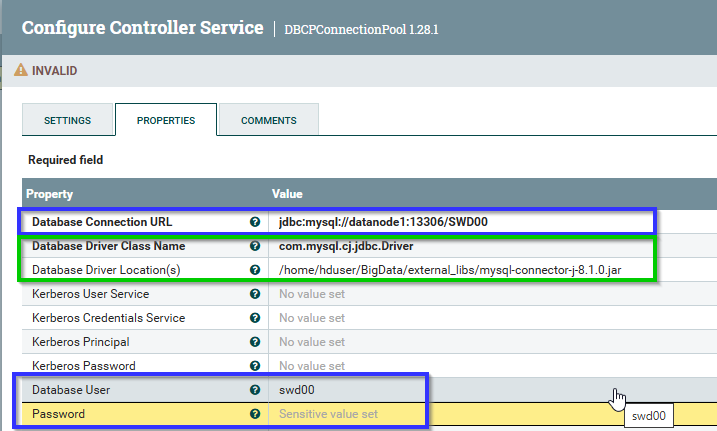
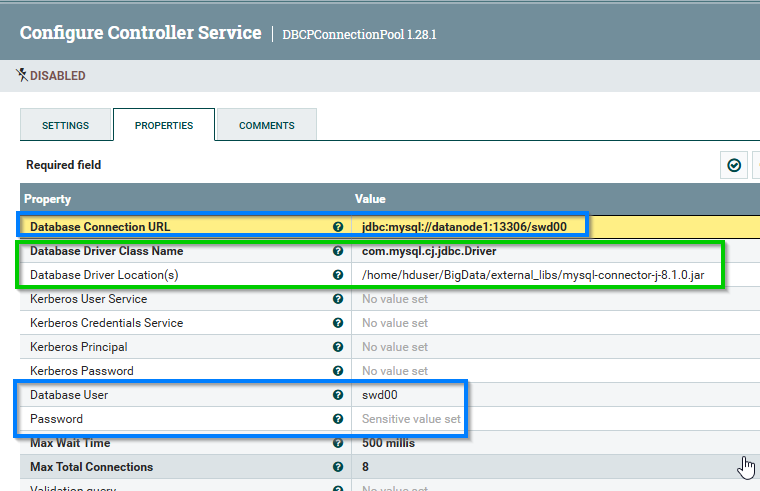
Nifi howto with GUI

diff --git a/scripts/05/05n_nifi_read_from_rdbms_to_hdfs.md b/scripts/05/05n_nifi_read_from_rdbms_to_hdfs.md
@@ -12,17 +12,22 @@ create hive destination table as external table. As Nifi uses binary [Parquet](h
 ```bash
 export HIVE_CONNECT_STRING=localhost:10000
 beeline --verbose -u jdbc:hive2://$HIVE_CONNECT_STRING scott tiger <<!
-CREATE EXTERNAL TABLE StudentsNifi (
-    id        INT,
-    name      STRING,
-    semester  INT,
-    course    STRING
+DROP TABLE IF EXISTS StudentsNifi;
+-- the entry_date column should be string, as date fields cannot easily be mapped between MySQL and hive
+CREATE EXTERNAL TABLE IF NOT EXISTS StudentsNifi (
+    id         INT,
+    first_name STRING,
+    last_name  STRING,
+    entry_date STRING,
+    course     STRING
 )
 STORED AS PARQUET
-LOCATION '/user/hduser/hive_external/studentsNifi';
+LOCATION '/user/hduser/hive_external/students';
 !
+
+hdfs dfs -mkdir -p /user/hduser/hive_external/students
 # check, if necessary
-hdfs dfs -chown nifi /user/hduser/hive_external/studentsNifi
+hdfs dfs -chmod 777 /user/hduser/hive_external/students
 ```
 
 then we need to configure NiFi using Web GUI on port 8999/nifi:
@@ -48,3 +53,77 @@ and set following properties (replace `swd00` by e.g. `itm01` or `swd01` inside 
 press the `flash` icon to enable the service:<br>
 
 ![enable service](images/image-5.png)
+
+add a new processor by dragging the following icon to the canvas board:<br>
+
+![add processor](images/image-6.png)
+
+![QueryDatabaseTable processor](images/image-7.png)
+
+set at least following values in the processor's properties (field "Maximum-value Columns" is used to find new inserts basing on ascending `id`)<br>
+> IMPORTANT: table names, database names etc. are case sensitive !!!
+
+![Processor properties](images/image-8.png)
+
+then add processor to write the data from MySQL to HDFS:<br>
+
+![ConvertRecord processor](images/image-9.png)
+
+and set the proper values for record reader and writer as below:<br>
+
+![RecordReaderWriter](images/image-10.png)
+
+add the end you should see the following 3 services, all 3 enabled:<br>
+
+![enabled controller services](images/image-11.png)
+
+add a processor to write to HDFS:<br>
+
+![add PutHDFSProcessor](images/image-12.png)
+
+and configure hadoop config files and the proper hive external directory:<br>
+
+![HDFS put settings](images/image-13.png)
+
+and then tell Nifi to end the processing after this step (other steps might also terminate in case of failure):<br>
+
+![terminate after last process](images/image-14.png)
+
+--then create an UpdateAttribute processor to configure target file names <br>
+--![UpdateAttribute](images/image-15.png)
+
+in the end your screen should look as below and pressing the `Play` button of the flow should show success:<br>
+
+![start Nifi flow](images/image-16.png)
+
+if all went well, you should see in the web GUI, that some bytes were read and written<br>
+and you should find a non-empty file in the HDFS target directory:
+
+```bash
+hdfs dfs -ls /user/hduser/hive_external/students
+```
+
+and then check the content of the destination table, which should find all records:<br>
+```bash
+beeline --verbose -u jdbc:hive2://$HIVE_CONNECT_STRING scott tiger <<!
+select * from StudentsNifi;
+!
+```
+
+## additional task: add some more records to source table with higher IDs
+
+when inserting
+```bash
+mysql --ssl=FALSE -u swd00 -D swd00 -h datanode1 -P 13306 --password=swd00 <<!
+INSERT INTO studentsMySQL VALUES (62, 'Tony', 'Anderson', '20221214', 'SWD');
+INSERT INTO studentsMySQL VALUES (63, 'Tim', 'Black', '20221215', 'SWD');
+INSERT INTO studentsMySQL VALUES (64, 'Jack', 'Ramez', '20230109', 'ITM');
+INSERT INTO studentsMySQL VALUES (65, 'Paul', 'Summer', '20230110', 'SWD');
+INSERT INTO studentsMySQL VALUES (66, 'James', 'Green', '20230111', 'SWD');
+COMMIT;
+!
+```
+
+after next run cycle you should see the ID being a higher value then 56, i.e. 66 after the following inserts:<br>
+
+![maximum ID value](images/image-17.png)
